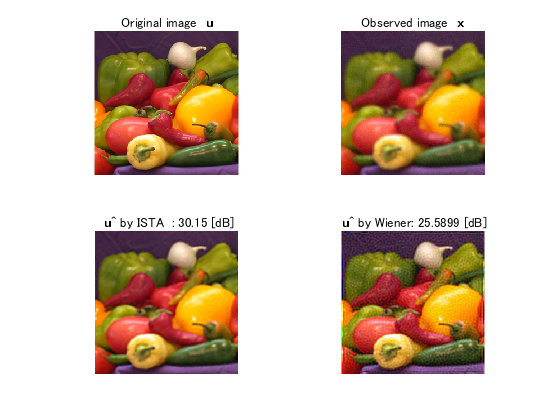
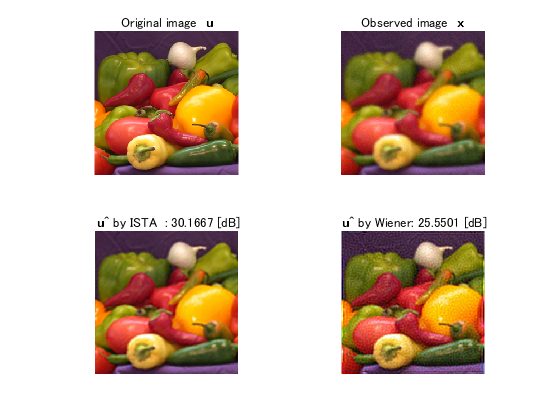
Updated the information.

Changed region(s): [[0.6071, 0.4952, 0.8804, 0.8976], [0.1821, 0.4952, 0.425, 0.5571]]

diff --git a/html/quickstart.html b/html/quickstart.html
@@ -357,56 +357,56 @@ resImg = step(ista,obsImg); <span class="comment">% STEP method of IstaImRestora
  ISTA
 (   1)  PSNR =  27.20 [dB] 
 (   2)  PSNR =  27.94 [dB] 
-(   3)  PSNR =  28.38 [dB] 
-(   4)  PSNR =  28.68 [dB] 
-(   5)  PSNR =  28.90 [dB] 
-(   6)  PSNR =  29.07 [dB] 
-(   7)  PSNR =  29.21 [dB] 
-(   8)  PSNR =  29.32 [dB] 
-(   9)  PSNR =  29.41 [dB] 
-(  10)  PSNR =  29.49 [dB] 
-(  11)  PSNR =  29.56 [dB] 
-(  12)  PSNR =  29.62 [dB] 
-(  13)  PSNR =  29.67 [dB] 
-(  14)  PSNR =  29.71 [dB] 
-(  15)  PSNR =  29.75 [dB] 
-(  16)  PSNR =  29.79 [dB] 
-(  17)  PSNR =  29.82 [dB] 
-(  18)  PSNR =  29.85 [dB] 
-(  19)  PSNR =  29.88 [dB] 
-(  20)  PSNR =  29.90 [dB] 
-(  21)  PSNR =  29.92 [dB] 
-(  22)  PSNR =  29.94 [dB] 
-(  23)  PSNR =  29.96 [dB] 
-(  24)  PSNR =  29.98 [dB] 
-(  25)  PSNR =  29.99 [dB] 
-(  26)  PSNR =  30.01 [dB] 
-(  27)  PSNR =  30.02 [dB] 
-(  28)  PSNR =  30.03 [dB] 
-(  29)  PSNR =  30.04 [dB] 
-(  30)  PSNR =  30.05 [dB] 
-(  31)  PSNR =  30.06 [dB] 
-(  32)  PSNR =  30.07 [dB] 
-(  33)  PSNR =  30.08 [dB] 
-(  34)  PSNR =  30.09 [dB] 
-(  35)  PSNR =  30.09 [dB] 
-(  36)  PSNR =  30.10 [dB] 
-(  37)  PSNR =  30.10 [dB] 
-(  38)  PSNR =  30.11 [dB] 
-(  39)  PSNR =  30.11 [dB] 
-(  40)  PSNR =  30.12 [dB] 
-(  41)  PSNR =  30.12 [dB] 
-(  42)  PSNR =  30.12 [dB] 
-(  43)  PSNR =  30.13 [dB] 
-(  44)  PSNR =  30.13 [dB] 
-(  45)  PSNR =  30.14 [dB] 
-(  46)  PSNR =  30.14 [dB] 
-(  47)  PSNR =  30.14 [dB] 
-(  48)  PSNR =  30.14 [dB] 
-(  49)  PSNR =  30.15 [dB] 
-(  50)  PSNR =  30.15 [dB] 
-(  51)  PSNR =  30.15 [dB] 
-(  52)  PSNR =  30.15 [dB] 
+(   3)  PSNR =  28.39 [dB] 
+(   4)  PSNR =  28.69 [dB] 
+(   5)  PSNR =  28.91 [dB] 
+(   6)  PSNR =  29.08 [dB] 
+(   7)  PSNR =  29.22 [dB] 
+(   8)  PSNR =  29.34 [dB] 
+(   9)  PSNR =  29.43 [dB] 
+(  10)  PSNR =  29.51 [dB] 
+(  11)  PSNR =  29.58 [dB] 
+(  12)  PSNR =  29.64 [dB] 
+(  13)  PSNR =  29.69 [dB] 
+(  14)  PSNR =  29.73 [dB] 
+(  15)  PSNR =  29.77 [dB] 
+(  16)  PSNR =  29.81 [dB] 
+(  17)  PSNR =  29.84 [dB] 
+(  18)  PSNR =  29.87 [dB] 
+(  19)  PSNR =  29.90 [dB] 
+(  20)  PSNR =  29.92 [dB] 
+(  21)  PSNR =  29.95 [dB] 
+(  22)  PSNR =  29.97 [dB] 
+(  23)  PSNR =  29.99 [dB] 
+(  24)  PSNR =  30.00 [dB] 
+(  25)  PSNR =  30.02 [dB] 
+(  26)  PSNR =  30.03 [dB] 
+(  27)  PSNR =  30.04 [dB] 
+(  28)  PSNR =  30.05 [dB] 
+(  29)  PSNR =  30.07 [dB] 
+(  30)  PSNR =  30.08 [dB] 
+(  31)  PSNR =  30.08 [dB] 
+(  32)  PSNR =  30.09 [dB] 
+(  33)  PSNR =  30.10 [dB] 
+(  34)  PSNR =  30.11 [dB] 
+(  35)  PSNR =  30.11 [dB] 
+(  36)  PSNR =  30.12 [dB] 
+(  37)  PSNR =  30.13 [dB] 
+(  38)  PSNR =  30.13 [dB] 
+(  39)  PSNR =  30.13 [dB] 
+(  40)  PSNR =  30.14 [dB] 
+(  41)  PSNR =  30.14 [dB] 
+(  42)  PSNR =  30.15 [dB] 
+(  43)  PSNR =  30.15 [dB] 
+(  44)  PSNR =  30.15 [dB] 
+(  45)  PSNR =  30.15 [dB] 
+(  46)  PSNR =  30.16 [dB] 
+(  47)  PSNR =  30.16 [dB] 
+(  48)  PSNR =  30.16 [dB] 
+(  49)  PSNR =  30.16 [dB] 
+(  50)  PSNR =  30.16 [dB] 
+(  51)  PSNR =  30.17 [dB] 
+(  52)  PSNR =  30.17 [dB] 
 </pre><img vspace="5" hspace="5" src="quickstart_02.png" alt=""> <h2 id="13">Extract the final evaluation</h2><p>The object of StepMonitoringSystem, <i>stepmonitor</i> , stores the evaluation values calculated iteratively in ISTA as a vector. The GET method of <i>stepmonitor</i>  can be used to extract the number of iterations and the sequence of PSNRs.</p><pre class="codeinput">nItr  = get(stepmonitor,<span class="string">'nItr'</span>);
 psnrs = get(stepmonitor,<span class="string">'PSNRs'</span>);
 psnr_ista = psnrs(nItr);
@@ -434,7 +434,7 @@ fprintf(<span class="string">'\n Wiener'</span>)
 psnr_wfdc = step(stepmonitor,wnfImg); <span class="comment">% STEP method of StepMonitoringSystem</span>
 </pre><pre class="codeoutput">
  Wiener
-(   1)  PSNR =  25.59 [dB] 
+(   1)  PSNR =  25.55 [dB] 
 </pre><h2 id="15">Compare deblurring performances</h2><p>In order to compare the deblurring performances between two methods, ISTA-based deblurring with NSOLT and Wiener filter, let us show the original, observed and two results in one figure together.</p><pre class="codeinput">hfig3 = figure(3);
 
 <span class="comment">% Original image x</span>
@@ -460,9 +460,10 @@ title([<span class="string">'{\bf u}\^ by Wiener: '</span> num2str(psnr_wfdc) <s
 </pre><pre class="codeoutput">
 * Release notes on Sparsity-Aware Image and Volume Data Restoration Package
 
-- SaivDr201705xx
--- (Major) Excluded the automatic MEX code generation function
---- Prepared the code generation script MYBUILD instead.
+- SaivDr20170504
+-- (Major) Excluded the automatic MEX code generation functions
+--- Prepared the code generation script MYBUILD instead
+-- (Minor) Revised header comments of each file
 
 - SaivDr20160610
 -- (Minor) Removed the dependency on Global Optimization Toolbox when GA is not used

diff --git a/examples/quickdesign/main_quickdesign_sgd.m b/examples/quickdesign/main_quickdesign_sgd.m
@@ -30,11 +30,11 @@ end
 
 %% Design through dictionary learning 
 % Parameters for NSOLT
-nLevels = 1;       % # of wavelet tree levels (must be 1 when gradObj = 'on') 
-nDecs   = [2 2];   % Decimation factor
+nLevels = 1;     % # of wavelet tree levels (must be 1 when gradObj = 'on') 
+nDecs   = [2 2]; % Decimation factor
 nChs    = [4 4]; % # of channels
-nOrds   = [4 4];   % Polyphase order
-nVm     = 1;       % # of vanishing moments
+nOrds   = [4 4]; % Polyphase order
+nVm     = 1;     % # of vanishing moments
 
 % Design conditions
 nIters       = 8;
